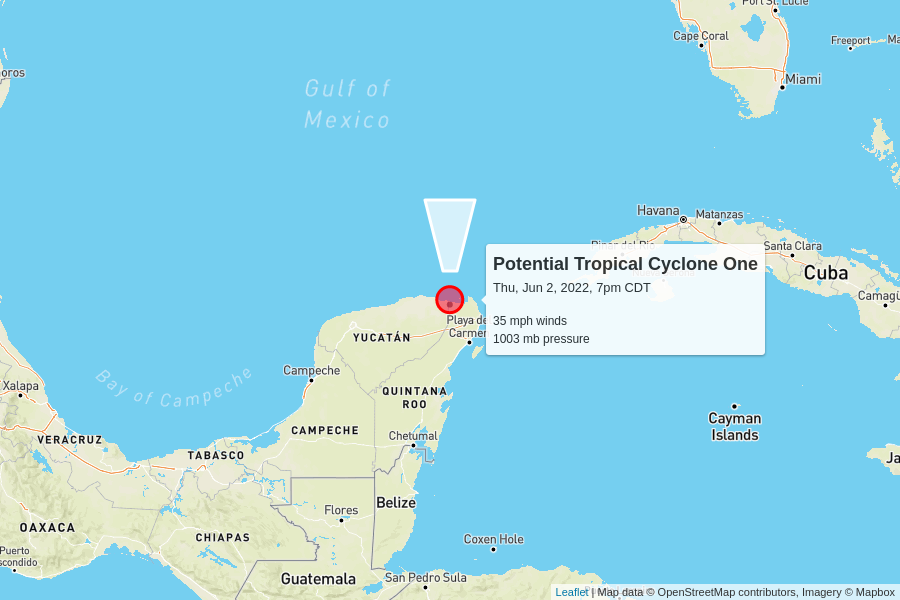
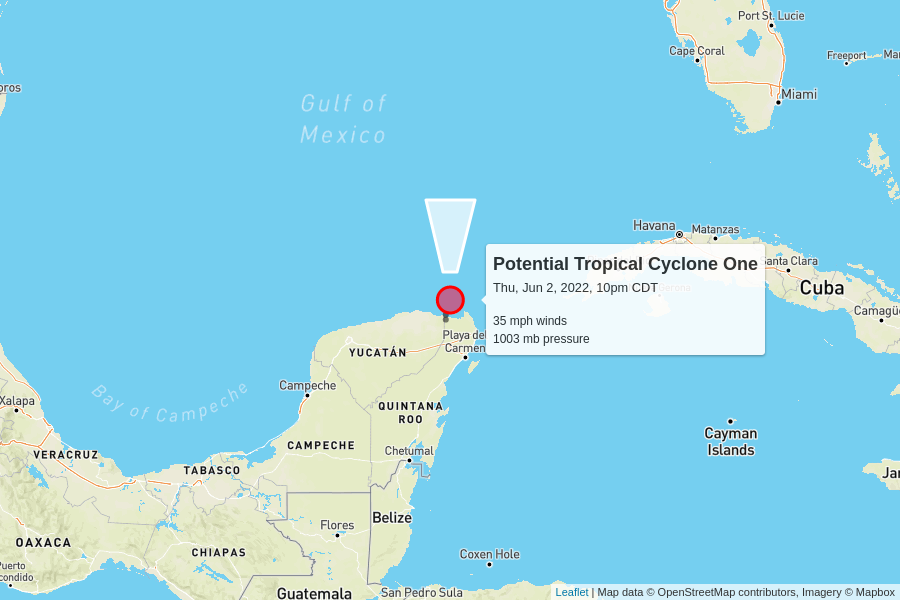
automatic update

diff --git a/docs/index.html b/docs/index.html
@@ -100,7 +100,7 @@
         <td colspan="6" class="storm category-0" >
           <h2>
             Potential Tropical Cyclone One
-            <p class="updated">last updated <span data-time>2022-06-03T00:00:00.000Z</span></p>
+            <p class="updated">last updated <span data-time>2022-06-03T03:00:00.000Z</span></p>
           </h2>
         </td>
       </tr>
@@ -118,7 +118,7 @@
         <td>35 mph</td>
         <td>1003 mb</td>
         <td>
-          5 mph to the north
+          6 mph to the north
           <br/>
           <span style="display: inline-block; font-size: 1.5em; transform: rotate(360deg);">↑</span>
         </td>
